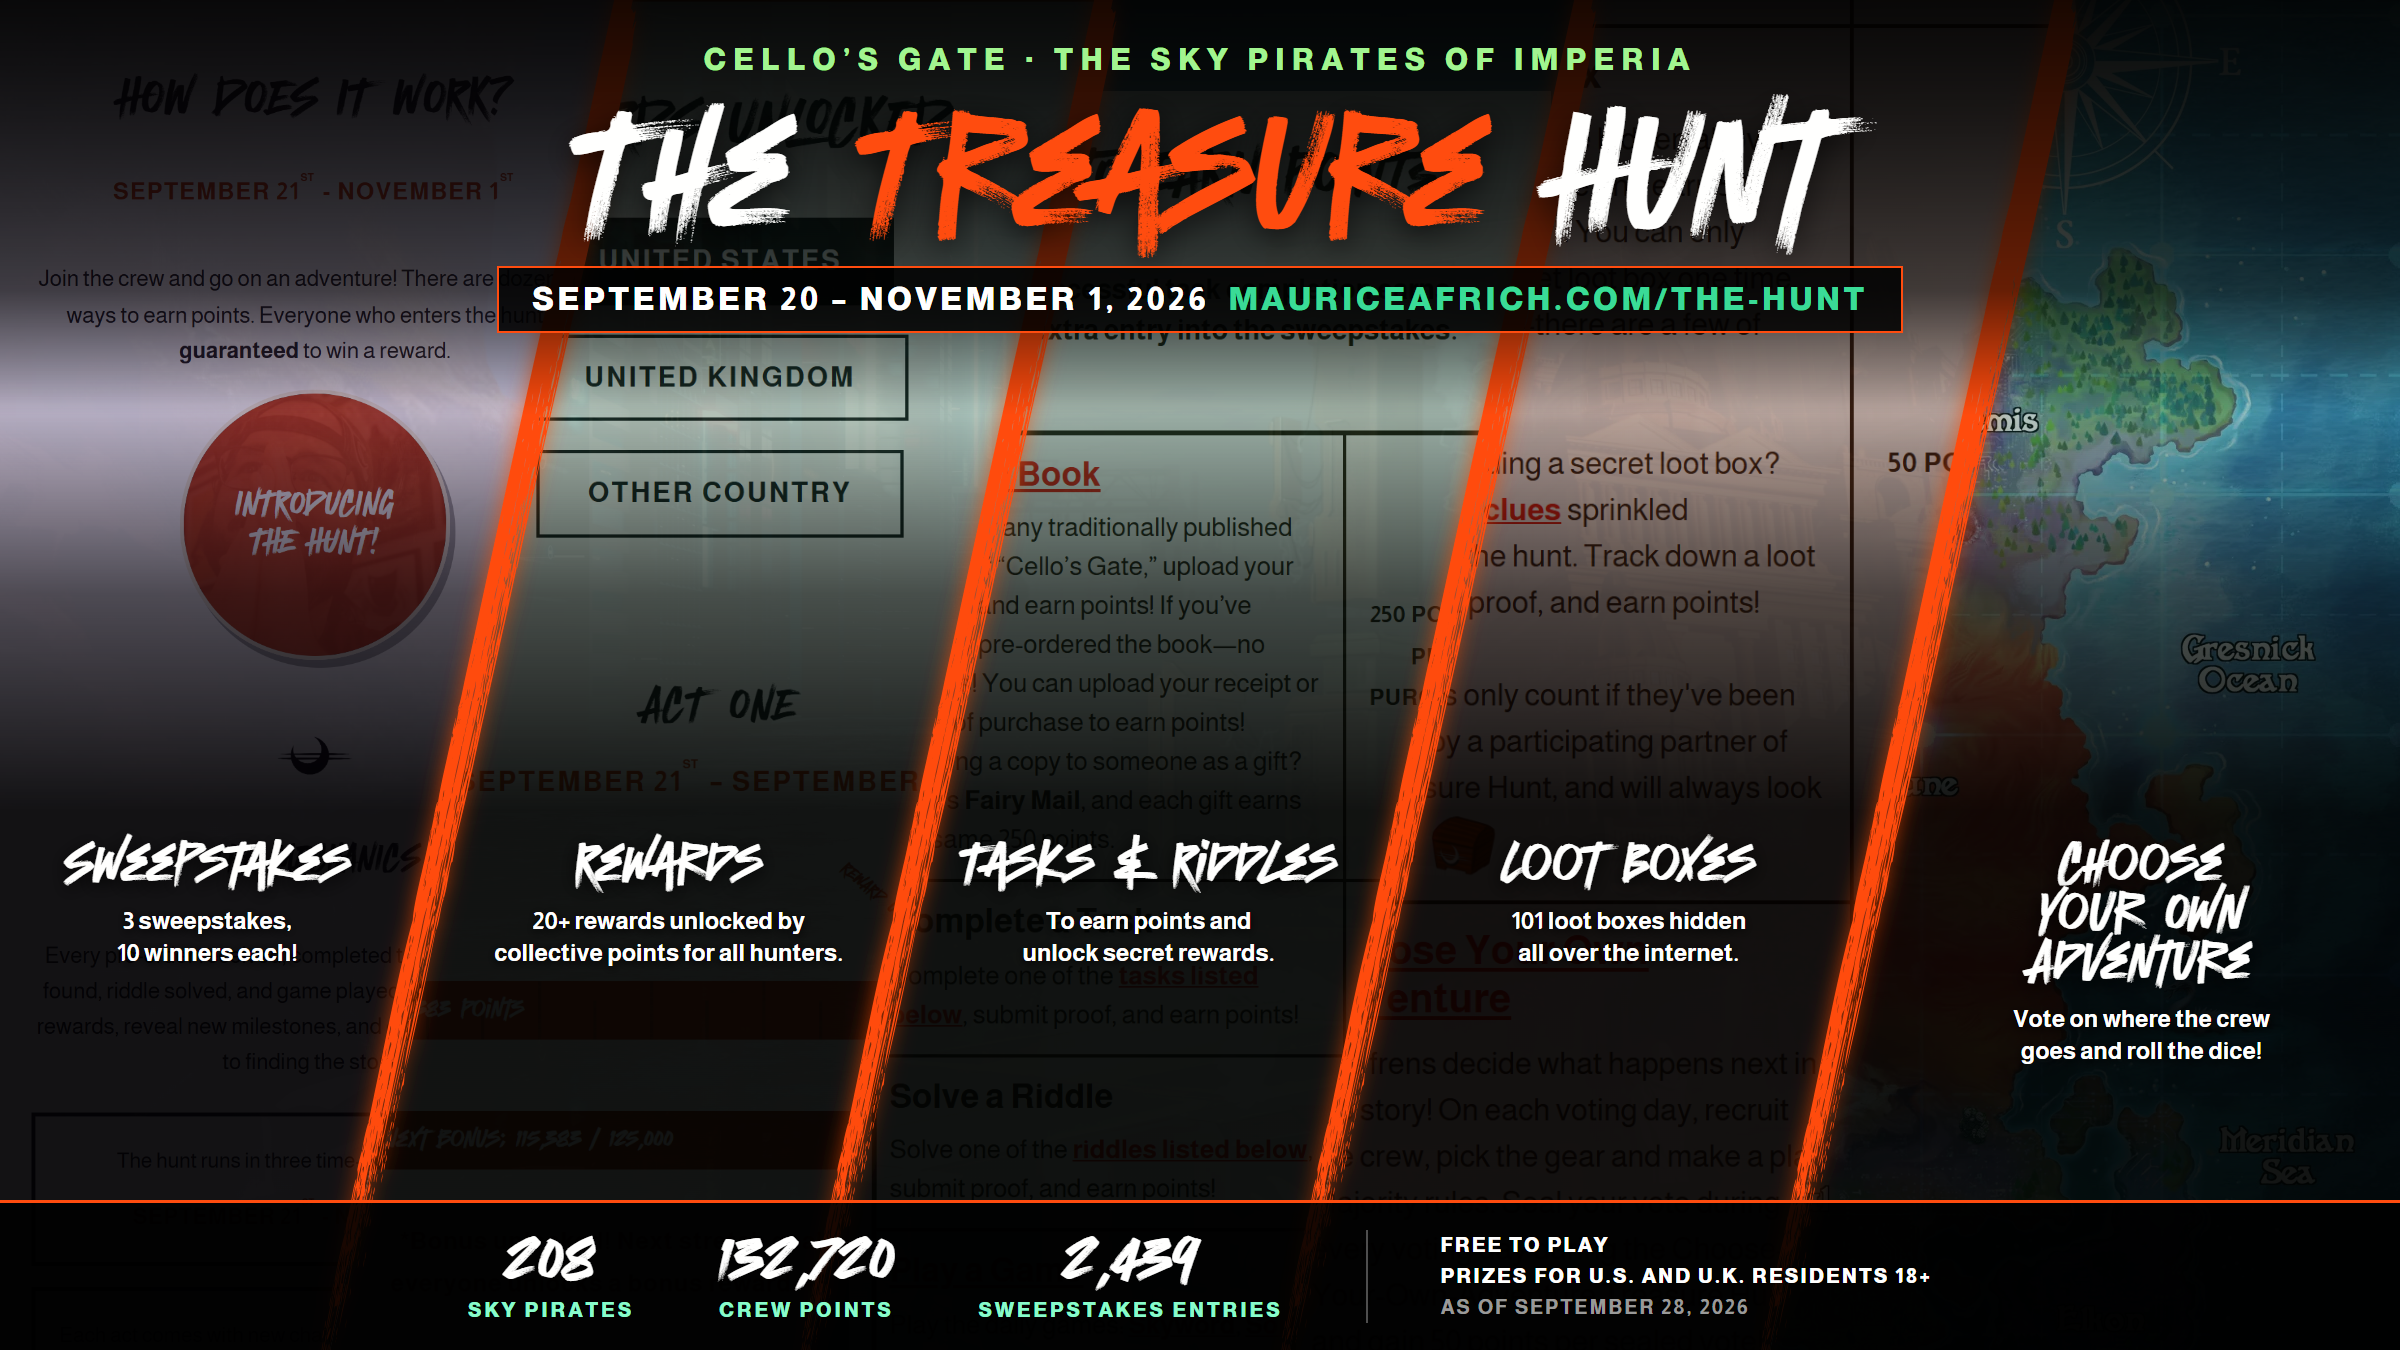
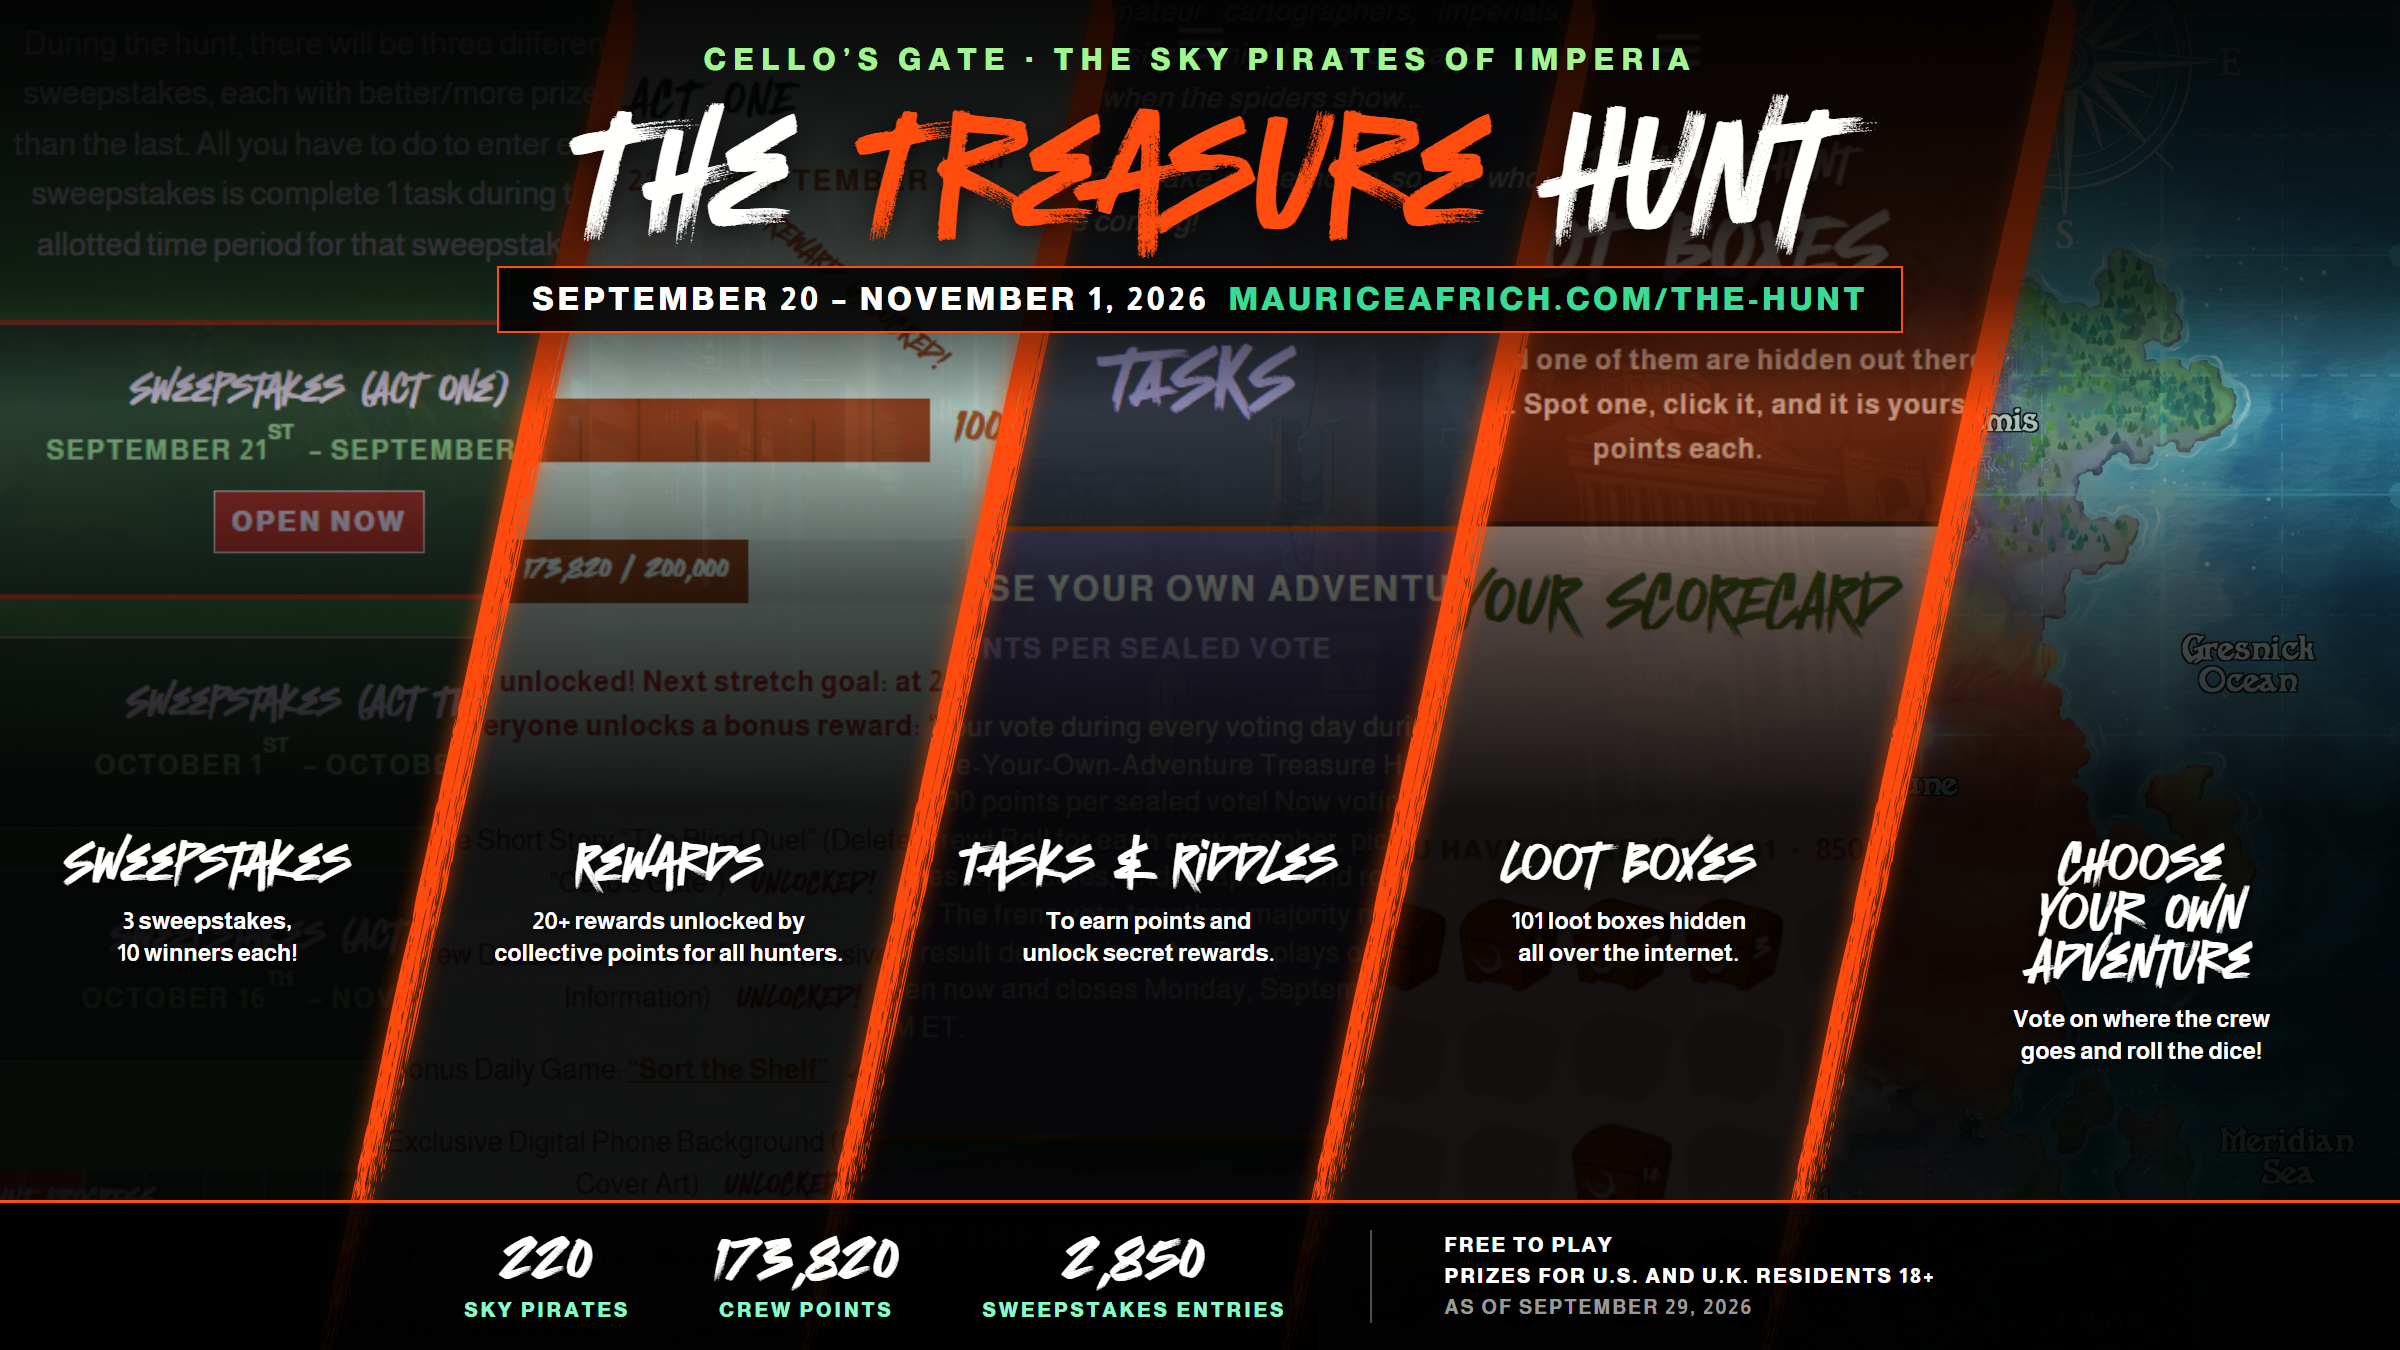
Hunt graphic: Maurice's page screenshots; Sep 29 numbers (preview)

diff --git a/pages/press.html b/pages/press.html
@@ -114,11 +114,11 @@
       <p class="pp-hunt-lede">From September 20th to November 1st, hundreds of readers from 21 different countries are searching for treasure hidden all over the internet. I’ve partnered with 20+ Bookstagram, Booktok, and Booktube influencers to make this thing as far-reaching as possible.</p><p class="pp-hunt-lede">The hunt is broken into three acts following a fully-interactive <b>Choose Your Own Adventure-Style Game</b> (hosted on the website). They solve riddles, follow clues, play daily bookish games, hunt down hidden loot boxes, and vote on where the story goes next.</p>
       <p class="pp-hunt-lede">There are three ways to win:</p>
       <ol class="pp-ways"><li>Each act ends with a Sweepstakes, where all participants are eligible to win prizes.</li><li>The three hunters (3 in the U.S., 3 in the U.K.) with the most points at the end of the hunt will win a Treasure Box filled with bookish prizes.</li><li>During each act, the hunters work together to collectively earn points to unlock up to 20+ rewards.</li></ol>
-      <div class="pp-stats"><div class="pp-stat"><b>208</b><span>sky pirates</span></div><div class="pp-stat"><b>132,720</b><span>crew points earned</span></div><div class="pp-stat"><b>2,439</b><span>sweepstakes entries</span></div><div class="pp-stat"><b>7,101</b><span>site visits in the first nine days</span></div></div>
-      <p class="pp-asof">As of September 28, 2026.</p>
+      <div class="pp-stats"><div class="pp-stat"><b>220</b><span>sky pirates</span></div><div class="pp-stat"><b>173,820</b><span>crew points earned</span></div><div class="pp-stat"><b>2,850</b><span>sweepstakes entries</span></div><div class="pp-stat"><b>7,101</b><span>site visits in the first nine days</span></div></div>
+      <p class="pp-asof">As of September 29, 2026.</p>
       <blockquote class="pp-quote"><p>“I spent my entire life waiting for someone to open a door for me, thinking that was something I was entitled to, for some reason. And then I realized that everyone with a key to a door worth opening didn’t know my name. They had no stake in my story. So I endeavored to change that.</p><p>I worked myself to the bone, hired two world-class editors, went to market on a six-month marketing strategy, and sold a lot of books. And then people started knowing my name. That’s when Simon Maverick came to me with an offer which I took to Merrilee Heifetz of Writers House, who took it to Saga Press, who waved me in with such ease, it was like there was never a door at all.</p><p>That’s why I built this treasure hunt. Because I thought it would be fun (which is a cornerstone of my brand), I thought it would help us sell a lot of books, and I thought, by the end of it, a lot more people would know my name. We’ll see, huh? If nothing else, I know we’re all having a pretty damn good time.”</p><cite>Maurice Africh, Author of “Cello’s Gate”</cite></blockquote>
-      <dl class="pp-facts"><dt>Dates</dt><dd>September 20 to November 1, 2026. It ends two days before “Cello’s Gate” comes out.</dd><dt>Where</dt><dd>mauriceafrich.com/the-hunt</dd><dt>Who</dt><dd>Free and open to everyone, everywhere. The Treasure and sweepstakes prizes are for U.S. and UK residents, 18 and older.</dd><dt>Players</dt><dd>208 sky pirates so far: 171 in the U.S., 16 in the UK, and 19 in other countries, including Canada and Estonia.</dd><dt>Traffic</dt><dd>My website averaged about 10 visits a day before the hunt. In its first nine days it had 7,101 visits and 16,570 page views, with 1,268 visits on September 27 alone.</dd><dt>Play</dt><dd>Tasks, riddles, clues, the daily Skyword game, a crossword, 100 hidden loot boxes, and a fan fiction contest.</dd><dt>Story</dt><dd>Choose-your-own-adventure-style game with a voting and dice rolling system that determines the outcomes. The crew works together to explore the island and find the treasure. With guest appearances by Gary Furlong!</dd><dt>Crew</dt><dd>Every point also counts toward a shared crew total that unlocks rewards for all players. The crew hit 100% of the Act One goal in eight days.</dd><dt>Acts</dt><dd>Three sweepstakes: Act One (September 21 to 30), Act Two (October 1 to 15), and Act Three (October 16 to November 1). Winners are announced the day after each act ends.</dd><dt>Treasure</dt><dd>The top three on the U.S. and UK leaderboards win The Treasure: signed editions, art prints, custom bookmarks, enamel pins, an advance audiobook, and more.</dd></dl>
-      <figure class="pp-gfx"><a href="https://africhmaurice.github.io/site/assets/press/hunt-overview.png" target="_blank" rel="noopener"><img src="https://africhmaurice.github.io/site/assets/press/hunt-overview.webp" width="2400" height="1350" alt="The Cello’s Gate Treasure Hunt: five panels split by brush slashes. Sweepstakes: 3 sweepstakes, 10 winners each. Rewards: 20+ rewards unlocked by collective points for all hunters. Tasks and Riddles: to earn points and unlock secret rewards. Loot Boxes: 101 loot boxes hidden all over the internet. Choose Your Own Adventure: vote on where the crew goes and roll the dice. 208 sky pirates, 132,720 crew points, 2,439 sweepstakes entries." loading="lazy"></a><figcaption><a href="https://africhmaurice.github.io/site/assets/press/hunt-overview.png" target="_blank" rel="noopener">Download the full-size graphic ↓</a></figcaption></figure>
+      <dl class="pp-facts"><dt>Dates</dt><dd>September 20 to November 1, 2026. It ends two days before “Cello’s Gate” comes out.</dd><dt>Where</dt><dd>mauriceafrich.com/the-hunt</dd><dt>Who</dt><dd>Free and open to everyone, everywhere. The Treasure and sweepstakes prizes are for U.S. and UK residents, 18 and older.</dd><dt>Players</dt><dd>220 sky pirates so far: 182 in the U.S., 16 in the UK, and 20 in other countries, including Canada and Estonia.</dd><dt>Traffic</dt><dd>My website averaged about 10 visits a day before the hunt. In its first nine days it had 7,101 visits and 16,570 page views, with 1,268 visits on September 27 alone.</dd><dt>Play</dt><dd>Tasks, riddles, clues, the daily Skyword game, a crossword, 100 hidden loot boxes, and a fan fiction contest.</dd><dt>Story</dt><dd>Choose-your-own-adventure-style game with a voting and dice rolling system that determines the outcomes. The crew works together to explore the island and find the treasure. With guest appearances by Gary Furlong!</dd><dt>Crew</dt><dd>Every point also counts toward a shared crew total that unlocks rewards for all players. The crew hit 100% of the Act One goal in eight days.</dd><dt>Acts</dt><dd>Three sweepstakes: Act One (September 21 to 30), Act Two (October 1 to 15), and Act Three (October 16 to November 1). Winners are announced the day after each act ends.</dd><dt>Treasure</dt><dd>The top three on the U.S. and UK leaderboards win The Treasure: signed editions, art prints, custom bookmarks, enamel pins, an advance audiobook, and more.</dd></dl>
+      <figure class="pp-gfx"><a href="https://africhmaurice.github.io/site/assets/press/hunt-overview.png" target="_blank" rel="noopener"><img src="https://africhmaurice.github.io/site/assets/press/hunt-overview.webp" width="2400" height="1350" alt="The Cello’s Gate Treasure Hunt: five panels split by brush slashes. Sweepstakes: 3 sweepstakes, 10 winners each. Rewards: 20+ rewards unlocked by collective points for all hunters. Tasks and Riddles: to earn points and unlock secret rewards. Loot Boxes: 101 loot boxes hidden all over the internet. Choose Your Own Adventure: vote on where the crew goes and roll the dice. 220 sky pirates, 173,820 crew points, 2,850 sweepstakes entries." loading="lazy"></a><figcaption><a href="https://africhmaurice.github.io/site/assets/press/hunt-overview.png" target="_blank" rel="noopener">Download the full-size graphic ↓</a></figcaption></figure>
       <div class="pp-cta"><a class="pp-btn" href="/the-hunt">See the hunt</a><a class="pp-btn" href="/leaderboard">Live leaderboard</a></div>
     </section>
 
